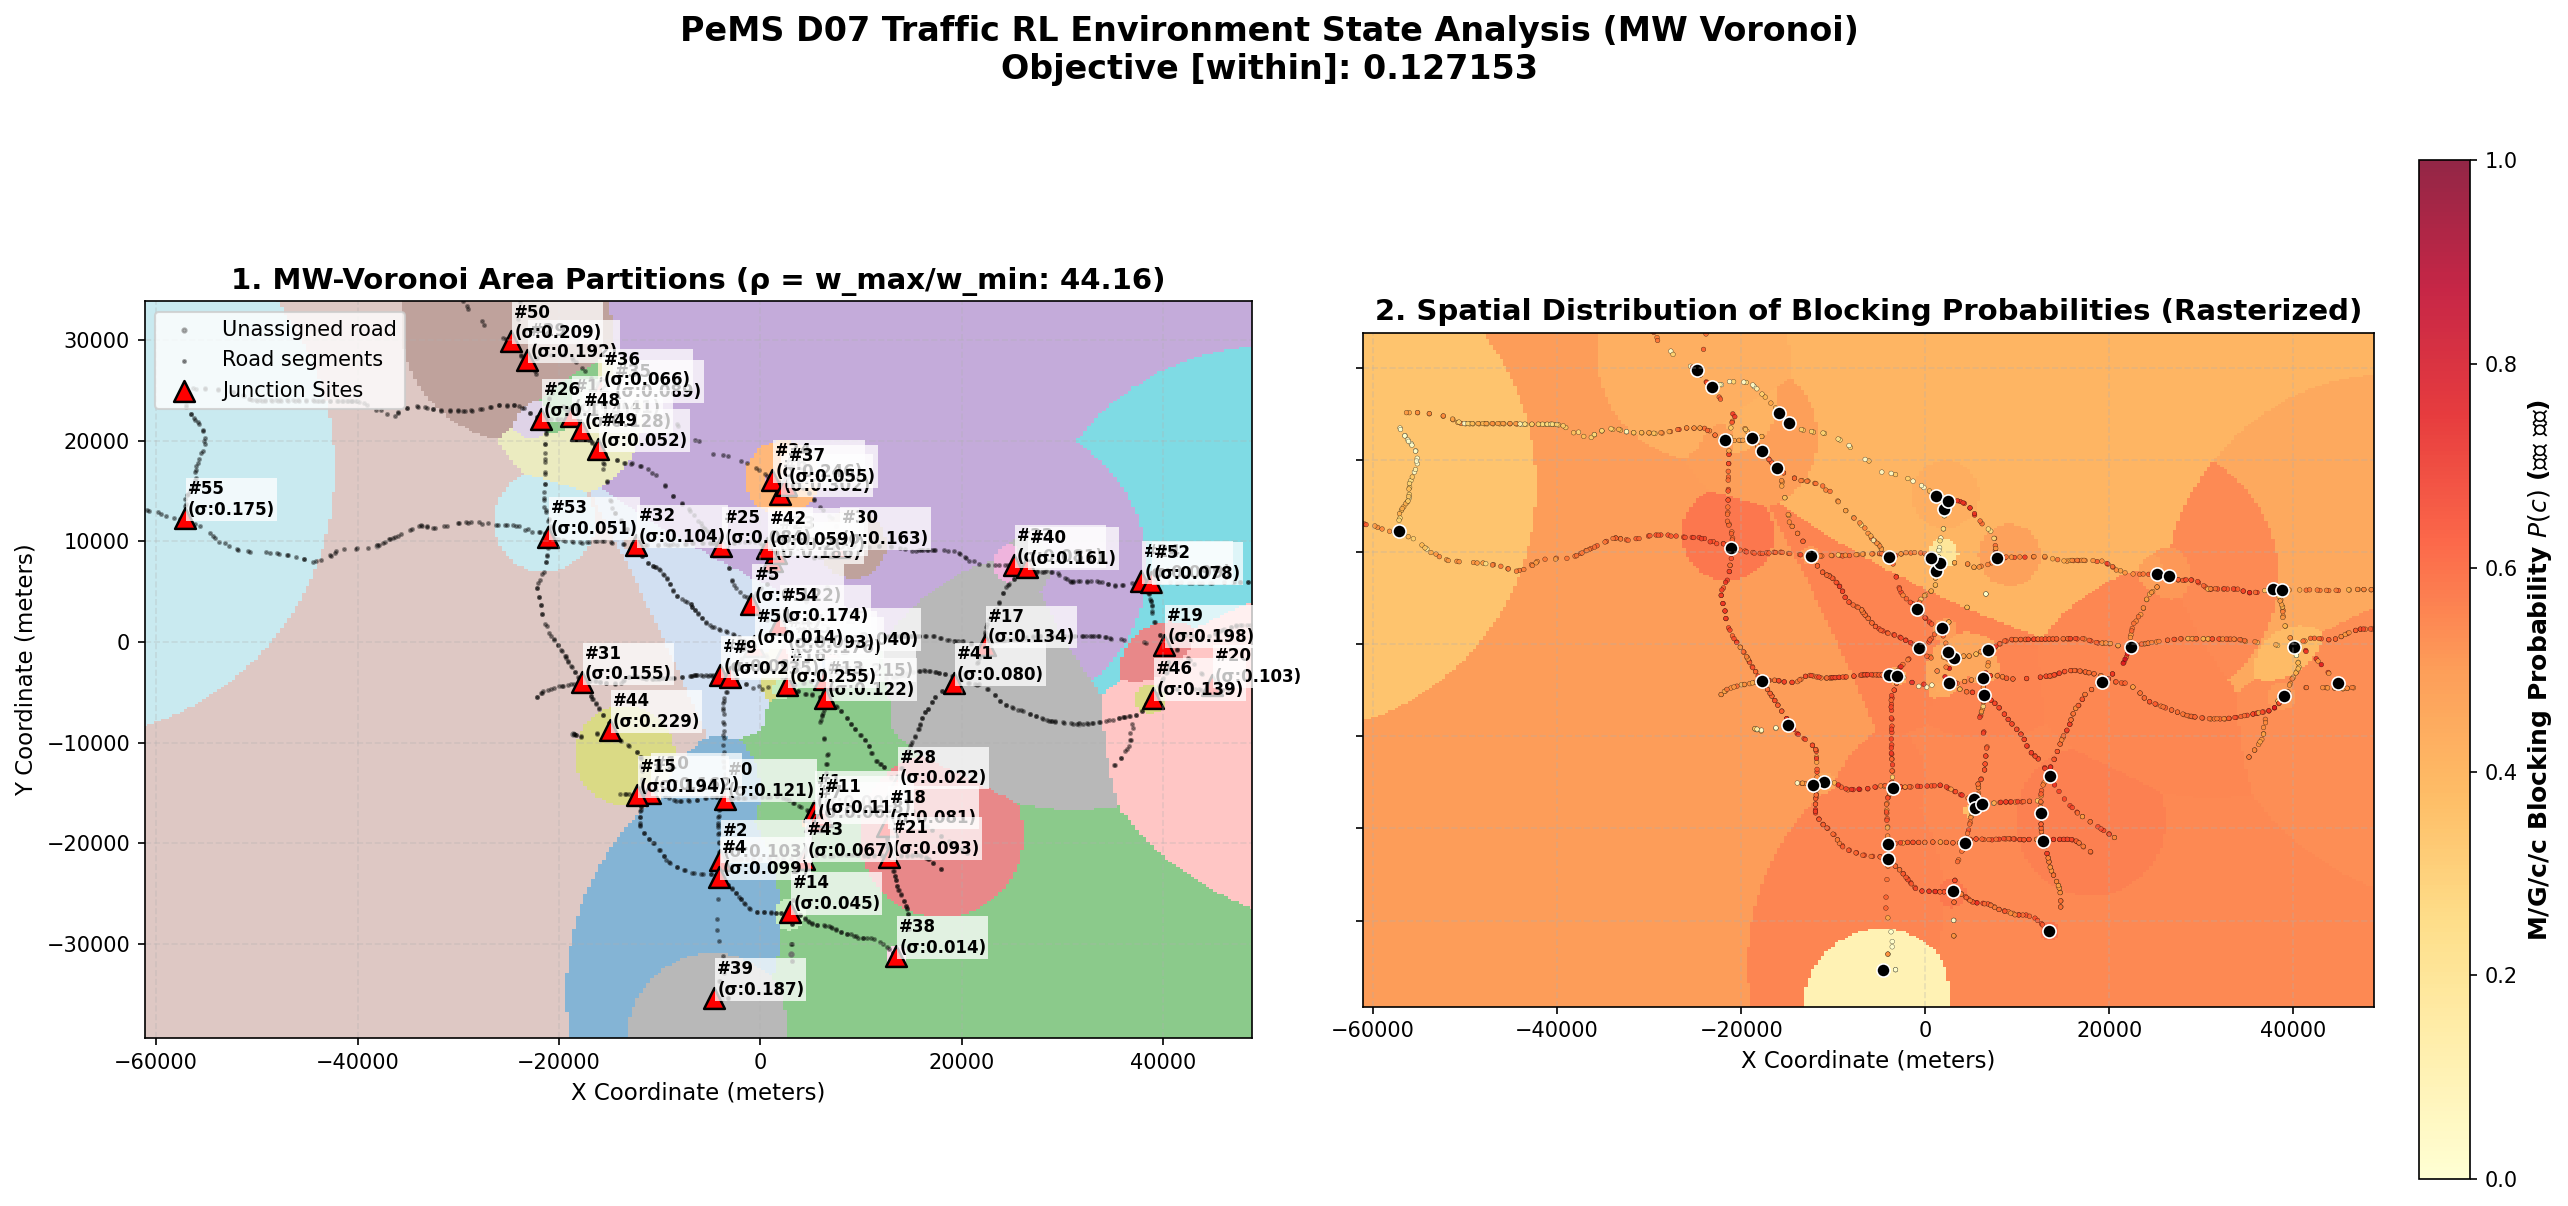
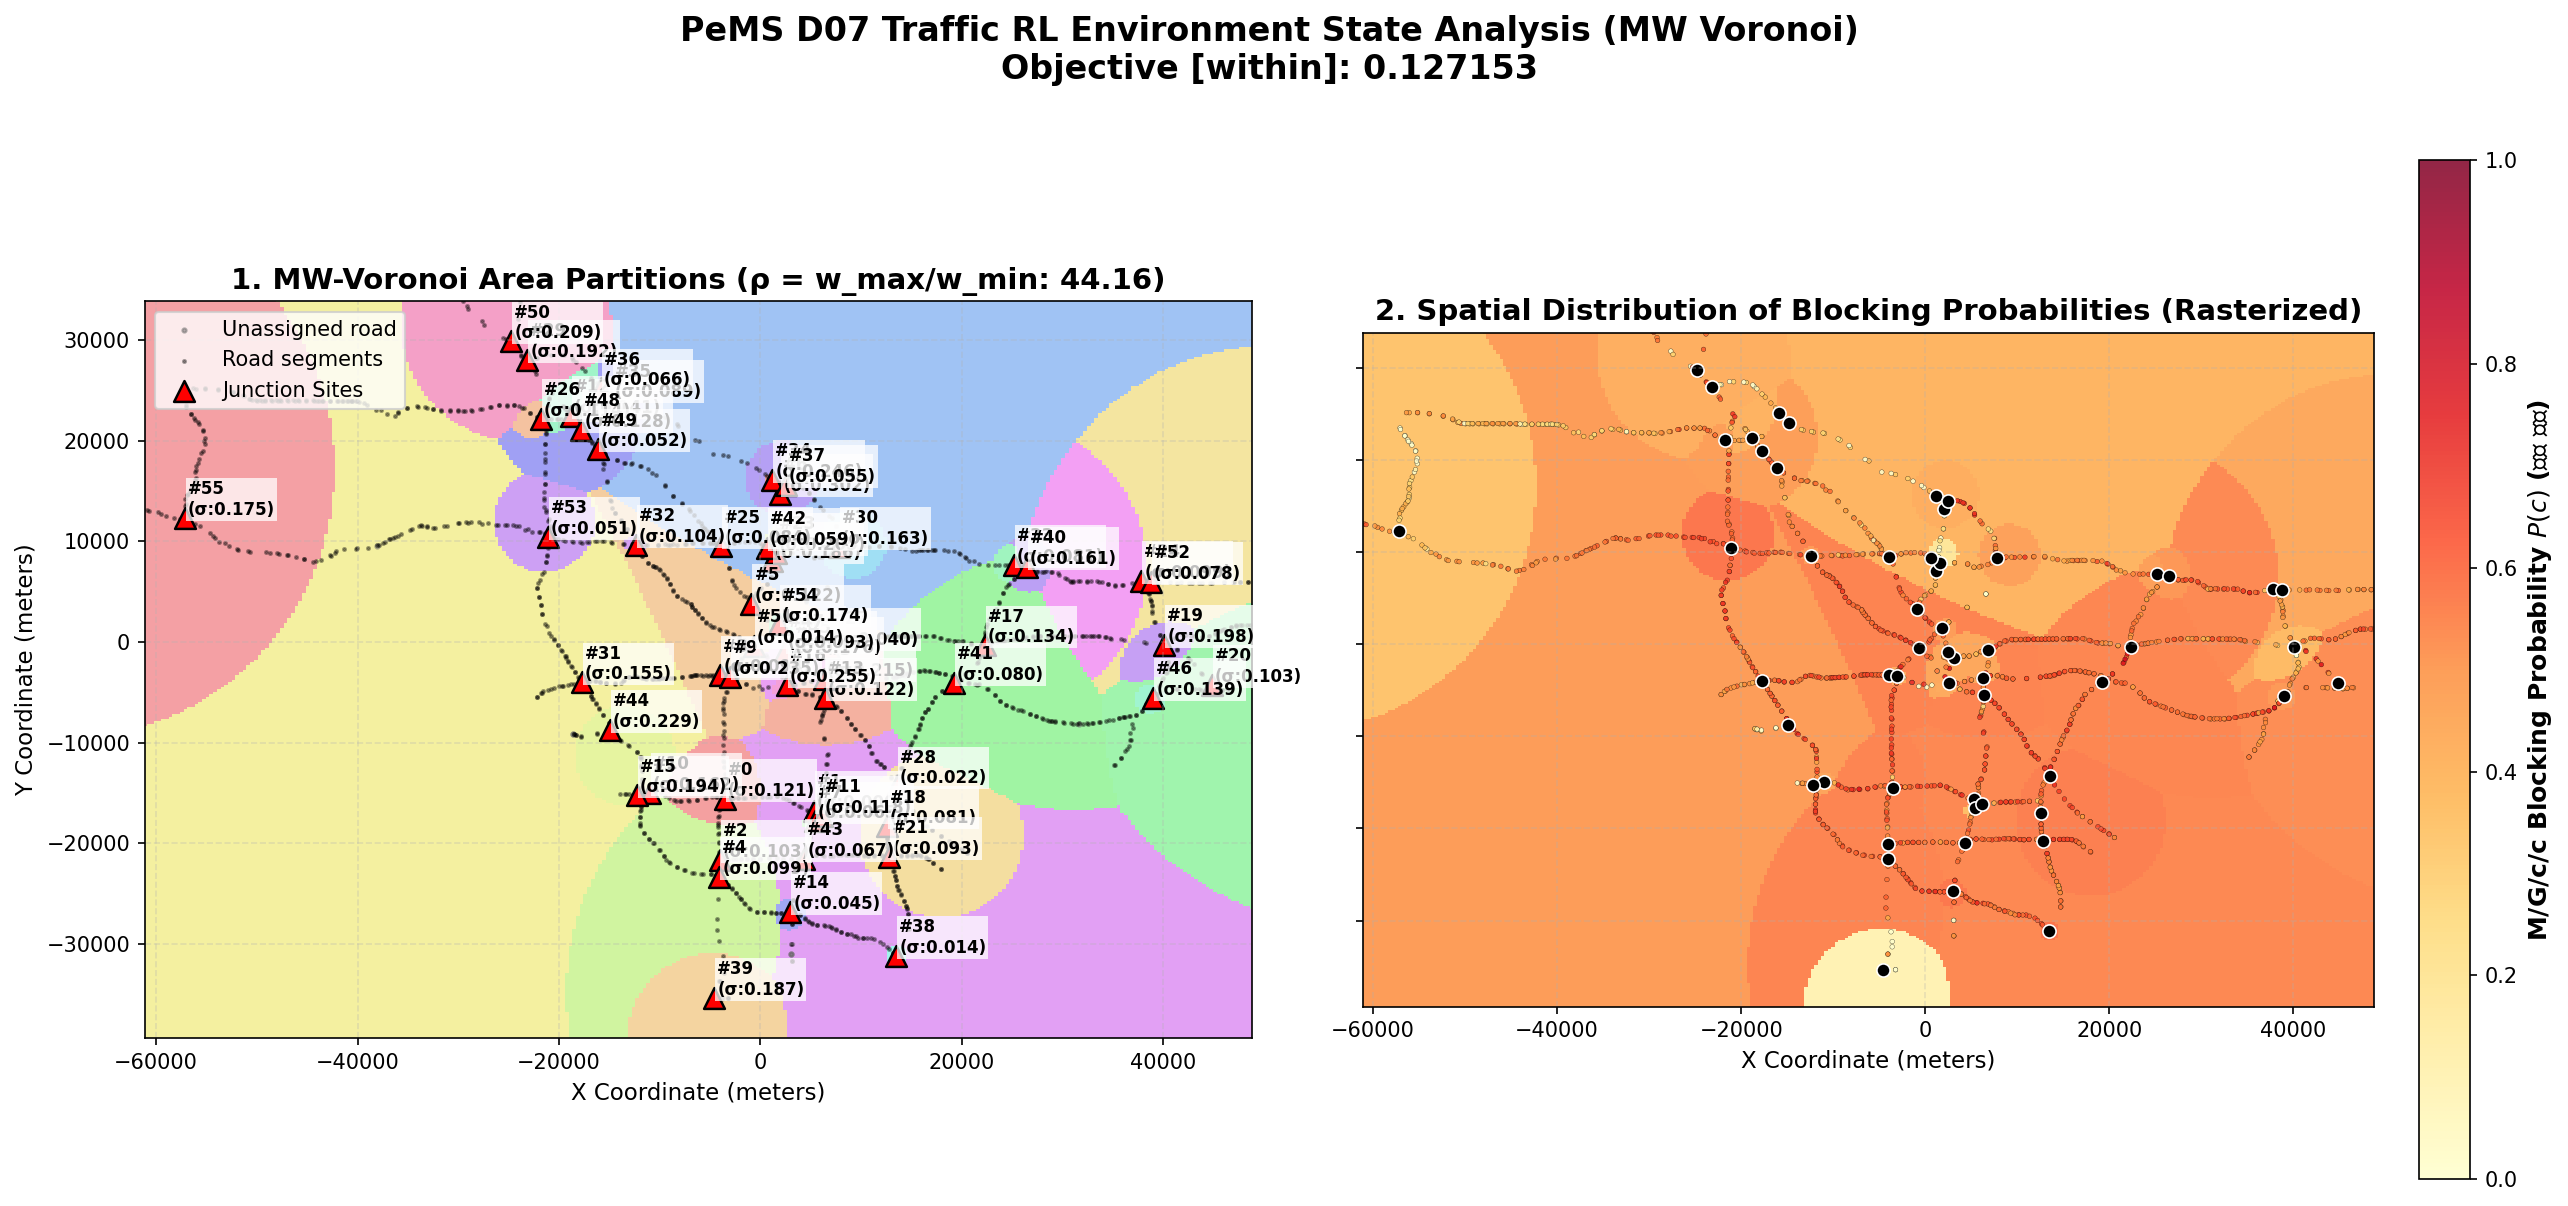
색상 구분 개선 및 탐색 반복 횟수 축소
- tab20(20색)이 K=56개 사이트에서 반복돼 인접 영역이 헷갈리던 문제를
  황금각 기반 커스텀 컬러맵(distinct_cmap)으로 해결, 모든 사이트가
  고유 색을 갖도록 함.
- random_search_best_a 반복 1회당 약 0.77초가 걸려 기본값 2000회는
  약 25분이 걸렸음. 실용적인 실행 시간을 위해 200회로 축소.

Changed region(s): [[0.0312, 0.2454, 0.4984, 0.859]]

diff --git a/features/data_preprocessing/vor_sd/rl_env_vor_show.py b/features/data_preprocessing/vor_sd/rl_env_vor_show.py
@@ -1,9 +1,11 @@
 import os
 import sys
+import colorsys
 from pathlib import Path
 
 import numpy as np
 import matplotlib.pyplot as plt
+from matplotlib.colors import ListedColormap
 
 # 이 파일(vor_sd/rl_env_vor_show.py) 기준으로 저장소 루트를 sys.path 에 추가한다.
 # rl_env_voronoi_mw.py 가 절대 패키지 경로(features.data_preprocessing.vor_sd...)로
@@ -15,6 +17,17 @@ if str(REPO_ROOT) not in sys.path:
 from features.data_preprocessing.vor_sd.rl_env_voronoi_mw import TrafficRLEnvMW, VF_MS
 from features.data_preprocessing.vor_sd.mw_cut import cut_segments_fast
 from features.data_preprocessing.vor_sd.mg_cc_batch import blocking_probability_batch
+
+
+def distinct_cmap(n):
+    """
+    tab20은 20색까지만 구분되고 그 이상은 색이 반복돼 인접 사이트끼리 헷갈린다.
+    황금각(golden angle)으로 색상환을 순회해 n개(여기선 K=56) 모두 서로
+    뚜렷이 구분되는 색을 만든다.
+    """
+    hues = (np.arange(n) * 0.6180339887498949) % 1.0
+    colors = [colorsys.hsv_to_rgb(h, 0.65, 0.92) for h in hues]
+    return ListedColormap(colors)
 
 
 def compute_mw_stats(env, a):
@@ -94,7 +107,7 @@ def plot_traffic_voronoi(env, a, save_filename="traffic_visualization.png"):
     # --------------------------------------------------------------------------
     ax1 = axes[0]
 
-    ax1.pcolormesh(XX, YY, owner_grid, cmap="tab20", vmin=0, vmax=max(env.K - 1, 1),
+    ax1.pcolormesh(XX, YY, owner_grid, cmap=distinct_cmap(env.K), vmin=0, vmax=max(env.K - 1, 1),
                    alpha=0.55, shading="auto")
 
     unassigned = assigned_site == -1
@@ -160,7 +173,7 @@ def plot_traffic_voronoi(env, a, save_filename="traffic_visualization.png"):
     print(f"[성공] 시각화 플롯이 '{save_filename}'에 저장되었습니다.")
 
 
-def random_search_best_a(env, iters=2000, seed=42):
+def random_search_best_a(env, iters=200, seed=42):
     """하드코딩된 옛 power-diagram 가중치 예시를 대체:
     현재 MW 환경(a-space, |a|<=a_bound)에서 무작위 탐색으로 목적함수가 가장 낮은 a를 찾는다."""
     rng = np.random.default_rng(seed)
@@ -199,6 +212,6 @@ if __name__ == "__main__":
     plot_traffic_voronoi(env, random_a, save_filename=f"{DIR}/outputs/vis_random_weights.png")
 
     print("\n[시나리오 3] 탐색된(무작위 서치 최적) 가중치 시각화 생성 중...")
-    best_a, best_J = random_search_best_a(env, iters=2000)
+    best_a, best_J = random_search_best_a(env, iters=200)
     print(f"  -> 탐색된 최적 목적함수 값: {best_J:.6f}")
     plot_traffic_voronoi(env, best_a, save_filename=f"{DIR}/outputs/vis_anal_weights.png")
